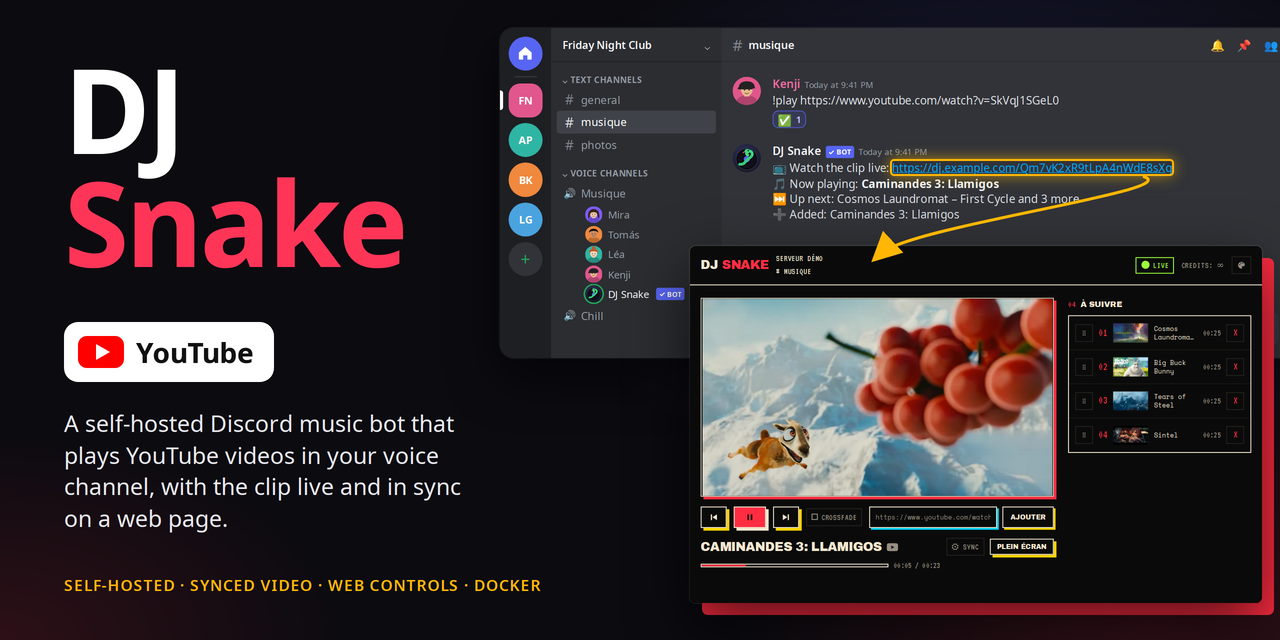
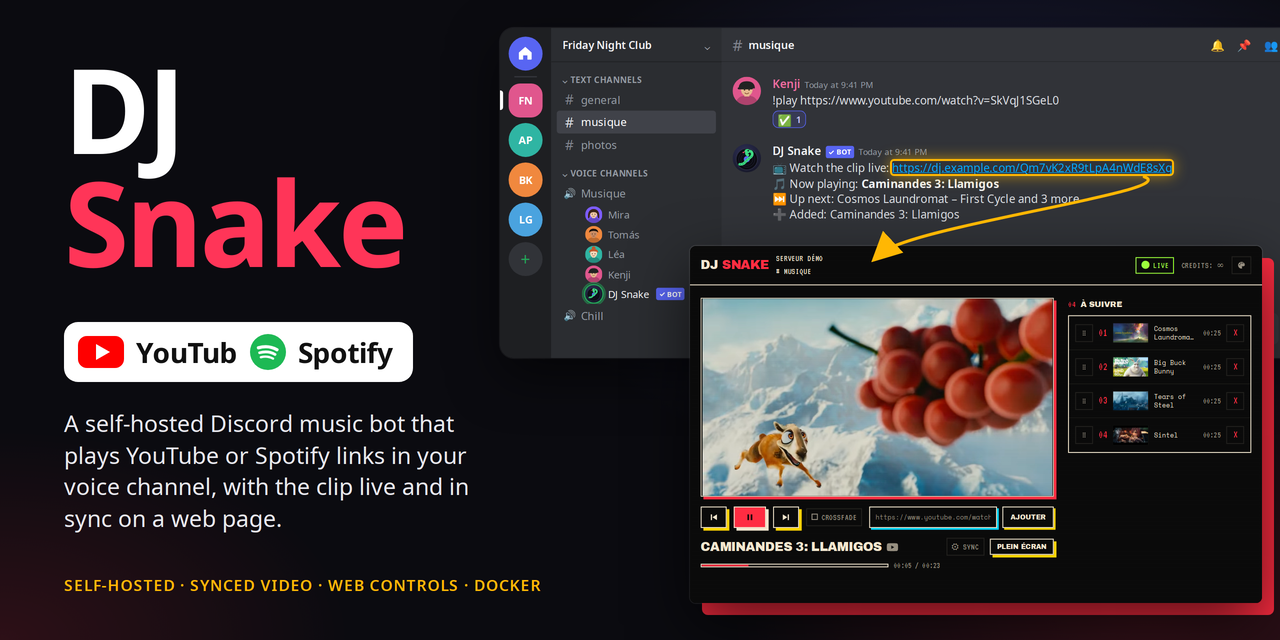
📝 Showcase Spotify links in README, project page, cover and changelog
Prepare the 1.1.0 changelog entry.

Claude-Session: https://claude.ai/code/session_017cv7f5FQWQNGURCmFYfWcR

Changed region(s): [[0.5312, 0.4688, 0.8438, 0.7812], [0.0312, 0.6875, 0.375, 0.8438], [0.1875, 0.5, 0.3438, 0.5938]]

diff --git a/docs/index.html b/docs/index.html
@@ -4,11 +4,11 @@
 <meta charset="utf-8">
 <meta name="viewport" content="width=device-width, initial-scale=1">
 <title>DJ Snake — a self-hosted Discord music bot</title>
-<meta name="description" content="A self-hosted Discord music bot with a live clip page: the video of the current track, synced with the audio, plus web controls and automix.">
+<meta name="description" content="A self-hosted Discord music bot for YouTube or Spotify links, with a live clip page: the video of the current track, synced with the audio, plus web controls and automix.">
 <meta name="theme-color" content="#0a0a0a">
 <meta property="og:type" content="website">
 <meta property="og:title" content="DJ Snake — a self-hosted Discord music bot">
-<meta property="og:description" content="Live, synced clip page, web controls and automix. Self-host it with Docker.">
+<meta property="og:description" content="YouTube or Spotify links, a live synced clip page, web controls and automix. Self-host it with Docker.">
 <meta property="og:image" content="https://theroxat.github.io/DJ_Snake/social-preview.png">
 <meta name="twitter:card" content="summary_large_image">
 <link rel="preconnect" href="https://fonts.googleapis.com">
@@ -54,6 +54,7 @@ section { padding: 40px 0; }
 .card { border: 2px solid var(--text); padding: 20px; box-shadow: 6px 6px 0 var(--c, var(--yellow)); }
 .card h3 { font: 400 19px/1.2 var(--display); text-transform: uppercase; margin: 0 0 8px; }
 .card p { margin: 0; color: var(--muted); font-size: 15px; }
+.card.spotify { --c: #1db954; grid-column: 1 / -1; }
 .card:nth-child(3n+2) { --c: var(--cyan); }
 .card:nth-child(3n+3) { --c: var(--red); }
 .note { color: var(--muted); font-size: 14px; margin-top: 10px; }
@@ -88,7 +89,7 @@ footer p { margin: 0 0 10px; }
     <div class="hero">
       <div>
         <h1>DJ<br><span>Snake</span></h1>
-        <p class="lead">A self-hosted Discord music bot. It plays YouTube in your voice channel and serves a live clip page where the video stays in sync with the audio.</p>
+        <p class="lead">A self-hosted Discord music bot. It plays YouTube or Spotify links in your voice channel and serves a live clip page where the video stays in sync with the audio.</p>
         <div class="btns">
           <a class="btn primary" href="demo/">Try the live demo</a>
           <a class="btn alt" href="https://github.com/Theroxat/DJ_Snake">View on GitHub</a>
@@ -100,9 +101,10 @@ footer p { margin: 0 0 10px; }
     <section aria-labelledby="features">
       <h2 id="features">What you get</h2>
       <ul class="grid">
+        <li class="card spotify"><h3>Paste a Spotify playlist</h3><p>Send a Spotify playlist, album or track link. DJ Snake reads the track list, finds each song on YouTube (the official music video first, no live, cover or remix versions) and skips what it cannot find. Nothing is downloaded from Spotify and no account is needed.</p></li>
         <li class="card"><h3>Live clip page</h3><p>Every server gets a link with the muted video of the current track, synced with the voice audio, and a queue anyone with the link can control.</p></li>
         <li class="card"><h3>Automix</h3><p>Off-topic segments cut with SponsorBlock, loudness normalised to -14 LUFS, silences trimmed, smooth fades. Optional crossfade between tracks.</p></li>
-        <li class="card"><h3>Web controls</h3><p>Pause, seek, jump to a track, drag to reorder, remove, or paste a YouTube link to add it, right from the clip page.</p></li>
+        <li class="card"><h3>Web controls</h3><p>Pause, seek, jump to a track, drag to reorder, remove, or paste a YouTube or Spotify link to add it, right from the clip page.</p></li>
         <li class="card"><h3>One queue per server</h3><p>Independent queues, playlists and radio links, with previous, seek, jump, reorder and remove from Discord or from the page.</p></li>
         <li class="card"><h3>One live status message</h3><p>A single panel edited in place instead of a channel full of announcements. Commands answer with a reaction.</p></li>
         <li class="card"><h3>Self-hosted, low upkeep</h3><p>Docker Compose with a PO token sidecar. yt-dlp upgrades itself on start, and it keeps working when YouTube changes. The page is themable, too.</p></li>
@@ -115,7 +117,7 @@ footer p { margin: 0 0 10px; }
 <span class="p">$</span> git clone https://github.com/Theroxat/DJ_Snake.git &amp;&amp; cd DJ_Snake
 <span class="p">$</span> cp .env.example .env   <span class="c"># set DISCORD_TOKEN</span>
 <span class="p">$</span> docker compose pull &amp;&amp; docker compose up -d</code></pre>
-      <p class="note">Then join a voice channel and send <code>!play &lt;youtube url&gt;</code>. Full setup, configuration and troubleshooting are in the <a href="https://github.com/Theroxat/DJ_Snake#readme">README</a>.</p>
+      <p class="note">Then join a voice channel and send <code>!play &lt;YouTube or Spotify link&gt;</code>. Full setup, configuration and troubleshooting are in the <a href="https://github.com/Theroxat/DJ_Snake#readme">README</a>.</p>
     </section>
   </main>
 

diff --git a/README.md b/README.md
@@ -2,11 +2,12 @@
 
 # DJ Snake
 
-**A self-hosted Discord music bot that plays YouTube videos in your voice channel, with a live clip page that shows the video in sync.**
+**A self-hosted Discord music bot that plays YouTube or Spotify links in your voice channel, with a live clip page that shows the video in sync.**
 
 [**Live demo**](https://theroxat.github.io/DJ_Snake/demo/) · [Project page](https://theroxat.github.io/DJ_Snake/) · [Releases](https://github.com/Theroxat/DJ_Snake/releases) · [Changelog](CHANGELOG.md)
 
 [![CI](https://img.shields.io/github/actions/workflow/status/Theroxat/DJ_Snake/ci.yml?branch=main&label=CI&logo=githubactions&logoColor=white)](https://github.com/Theroxat/DJ_Snake/actions/workflows/ci.yml)
+![Spotify](https://img.shields.io/badge/Spotify-playlists%20%C2%B7%20albums%20%C2%B7%20tracks-1DB954?logo=spotify&logoColor=white)
 ![Python 3.10+](https://img.shields.io/badge/python-3.10%2B-3776ab?logo=python&logoColor=white)
 ![Tests](https://img.shields.io/badge/tests-159%20passing-2ea44f)
 [![Release](https://img.shields.io/github/v/release/Theroxat/DJ_Snake?color=ff2c41)](https://github.com/Theroxat/DJ_Snake/releases)
@@ -25,8 +26,8 @@
 
 ## Features
 
+- **Spotify playlists, albums and tracks.** Paste a link and the bot finds every song on YouTube, preferring the official music video, with no Spotify account or API key needed (see [Spotify links](#spotify-links)).
 - YouTube URLs and playlists. Tracks are fully downloaded before they play (no streaming).
-- Spotify playlists, albums and tracks: each track is matched to a YouTube video (see [Spotify links](#spotify-links)).
 - Independent queue per server.
 - Live clip page: muted video synced with the audio, plus web controls (next, previous, pause, resume, seek, jump, remove, reorder, add).
 - Automix, always on: SponsorBlock `music_offtopic` segments are cut, loudness is normalised to -14 LUFS, leading and trailing silence is trimmed, and tracks fade in and out.
@@ -79,11 +80,27 @@ The prefix is `!` by default (`COMMAND_PREFIX`).
 
 ## Spotify links
 
-`!play` (and the clip page's add box) also take Spotify links: `https://open.spotify.com/playlist/...`, `/album/...`, `/track/...` or `spotify:playlist:...` URIs. Short `spotify.link` links are refused; open them and copy the `open.spotify.com` address.
+Paste a Spotify playlist, album or track into `!play` or the clip page's add box and DJ Snake plays it, with no Spotify account and no API key.
 
-The bot never plays or downloads anything from Spotify. It reads the track list (title, artists, duration), searches YouTube for each track and queues the best match: the duration must be close, the title and artist must match, official music videos come first (the clip page shows the video), then official audio and "- Topic" uploads, and live, cover, remix, karaoke, nightcore or sped-up versions are avoided unless the Spotify title says so. It can still pick a wrong version. Tracks with no good match are skipped and counted in the status message ("✅ 8/10 tracks loaded (2 not found on YouTube)"). Lists load in the background like YouTube playlists, up to `MAX_PLAYLIST_SIZE`.
+```
+!play https://open.spotify.com/playlist/4rT7xKq2LmNb9VcZ0aYdEw
+```
 
-By default no configuration is needed: the list comes from Spotify's public embed page, which shows at most 100 tracks of a playlist or album. To read longer lists, create an app in the [Spotify developer dashboard](https://developer.spotify.com/dashboard) and set `SPOTIFY_CLIENT_ID` and `SPOTIFY_CLIENT_SECRET`; the bot then uses the Web API and falls back to the embed page if the API refuses a playlist (Spotify hides its own editorial playlists from new apps). Private playlists cannot be read either way.
+How it works:
+
+1. The bot reads the track list (title, artists, duration) from the link. It never plays or downloads anything from Spotify.
+2. It searches YouTube for each track and scores the results: the duration must be close, and the title and artist must match.
+3. Official music videos come first (the clip page shows the video), then official audio and "- Topic" uploads. Live, cover, remix, karaoke, nightcore and sped-up versions are skipped unless the Spotify title says so.
+4. Tracks load in the background like a YouTube playlist, up to `MAX_PLAYLIST_SIZE`, and songs with no good match are skipped and counted in the status message: "✅ 28/30 tracks loaded (2 not found on YouTube)".
+
+Accepted links are `open.spotify.com` `/playlist/`, `/album/` and `/track/` addresses and `spotify:playlist:...` style URIs.
+
+Limits:
+
+- Without credentials the list comes from Spotify's public embed page, which shows at most 100 tracks of a playlist or album. For longer lists, create an app in the [Spotify developer dashboard](https://developer.spotify.com/dashboard) and set `SPOTIFY_CLIENT_ID` and `SPOTIFY_CLIENT_SECRET`. The bot then uses the Web API, and falls back to the embed page if the API refuses a playlist (Spotify hides its own editorial playlists from new apps).
+- Private playlists cannot be read either way.
+- The match can occasionally be the wrong version of a song.
+- Short `spotify.link` links are refused: open them and copy the `open.spotify.com` address.
 
 DJ Snake is not affiliated with or endorsed by Spotify.
 

diff --git a/CHANGELOG.md b/CHANGELOG.md
@@ -7,6 +7,8 @@ and this project adheres to [Semantic Versioning](https://semver.org/).
 
 ## [Unreleased]
 
+## [1.1.0] - 2026-10-17
+
 ### Added
 
 - Spotify links: `!play` and the clip page's add action accept Spotify
@@ -17,6 +19,14 @@ and this project adheres to [Semantic Versioning](https://semver.org/).
   best match (duration, title and artist, official video first) is queued;
   tracks without a match are skipped and counted. Nothing is downloaded from
   Spotify.
+- GitHub link in the clip page header.
+
+### Changed
+
+- Long track titles are clamped to two lines, and queue titles are more
+  readable.
+- Refreshed demo and showcase (README, project page, social preview), which
+  now highlight Spotify links.
 
 ## [1.0.0] - 2026-10-17
 
@@ -57,5 +67,6 @@ and this project adheres to [Semantic Versioning](https://semver.org/).
 - Queued tracks being wiped on routine gateway reconnects.
 - Python 3.13+ compatibility.
 
-[Unreleased]: https://github.com/Theroxat/DJ_Snake/compare/v1.0.0...HEAD
+[Unreleased]: https://github.com/Theroxat/DJ_Snake/compare/v1.1.0...HEAD
+[1.1.0]: https://github.com/Theroxat/DJ_Snake/compare/v1.0.0...v1.1.0
 [1.0.0]: https://github.com/Theroxat/DJ_Snake/releases/tag/v1.0.0
